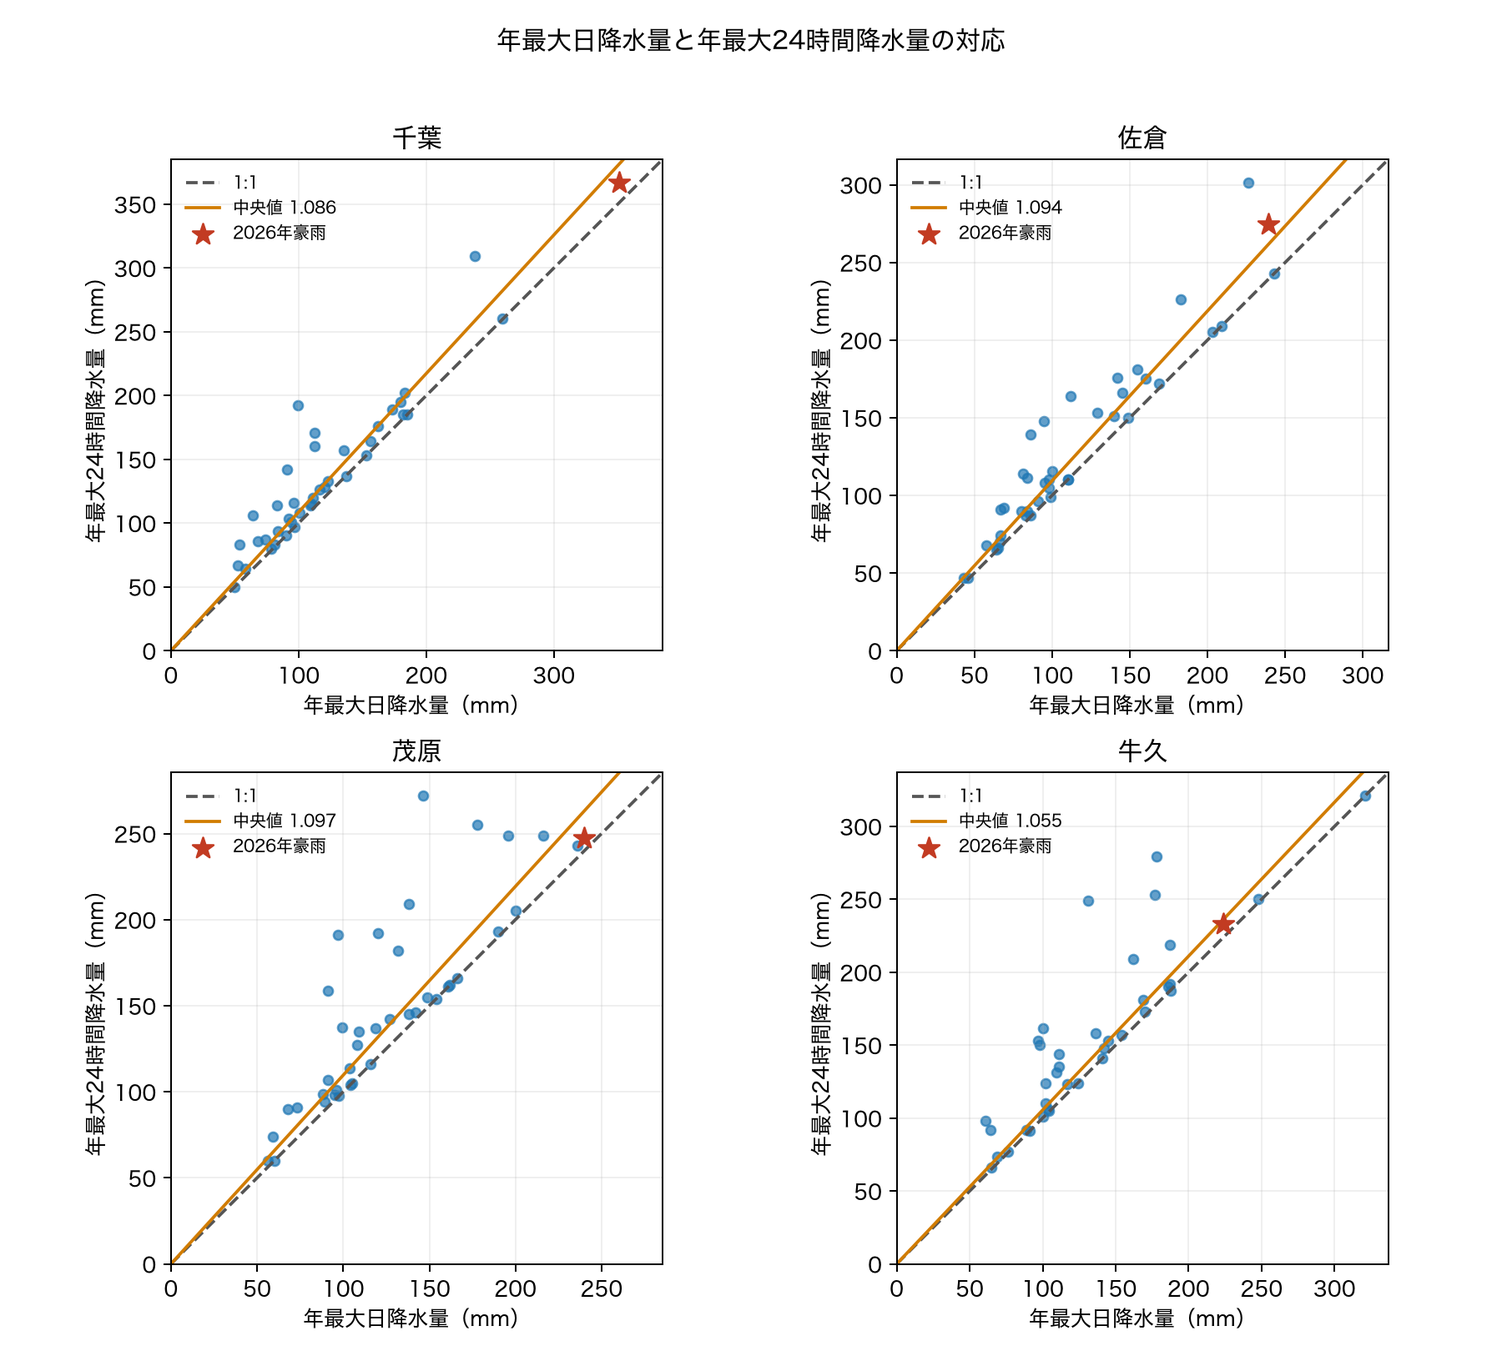
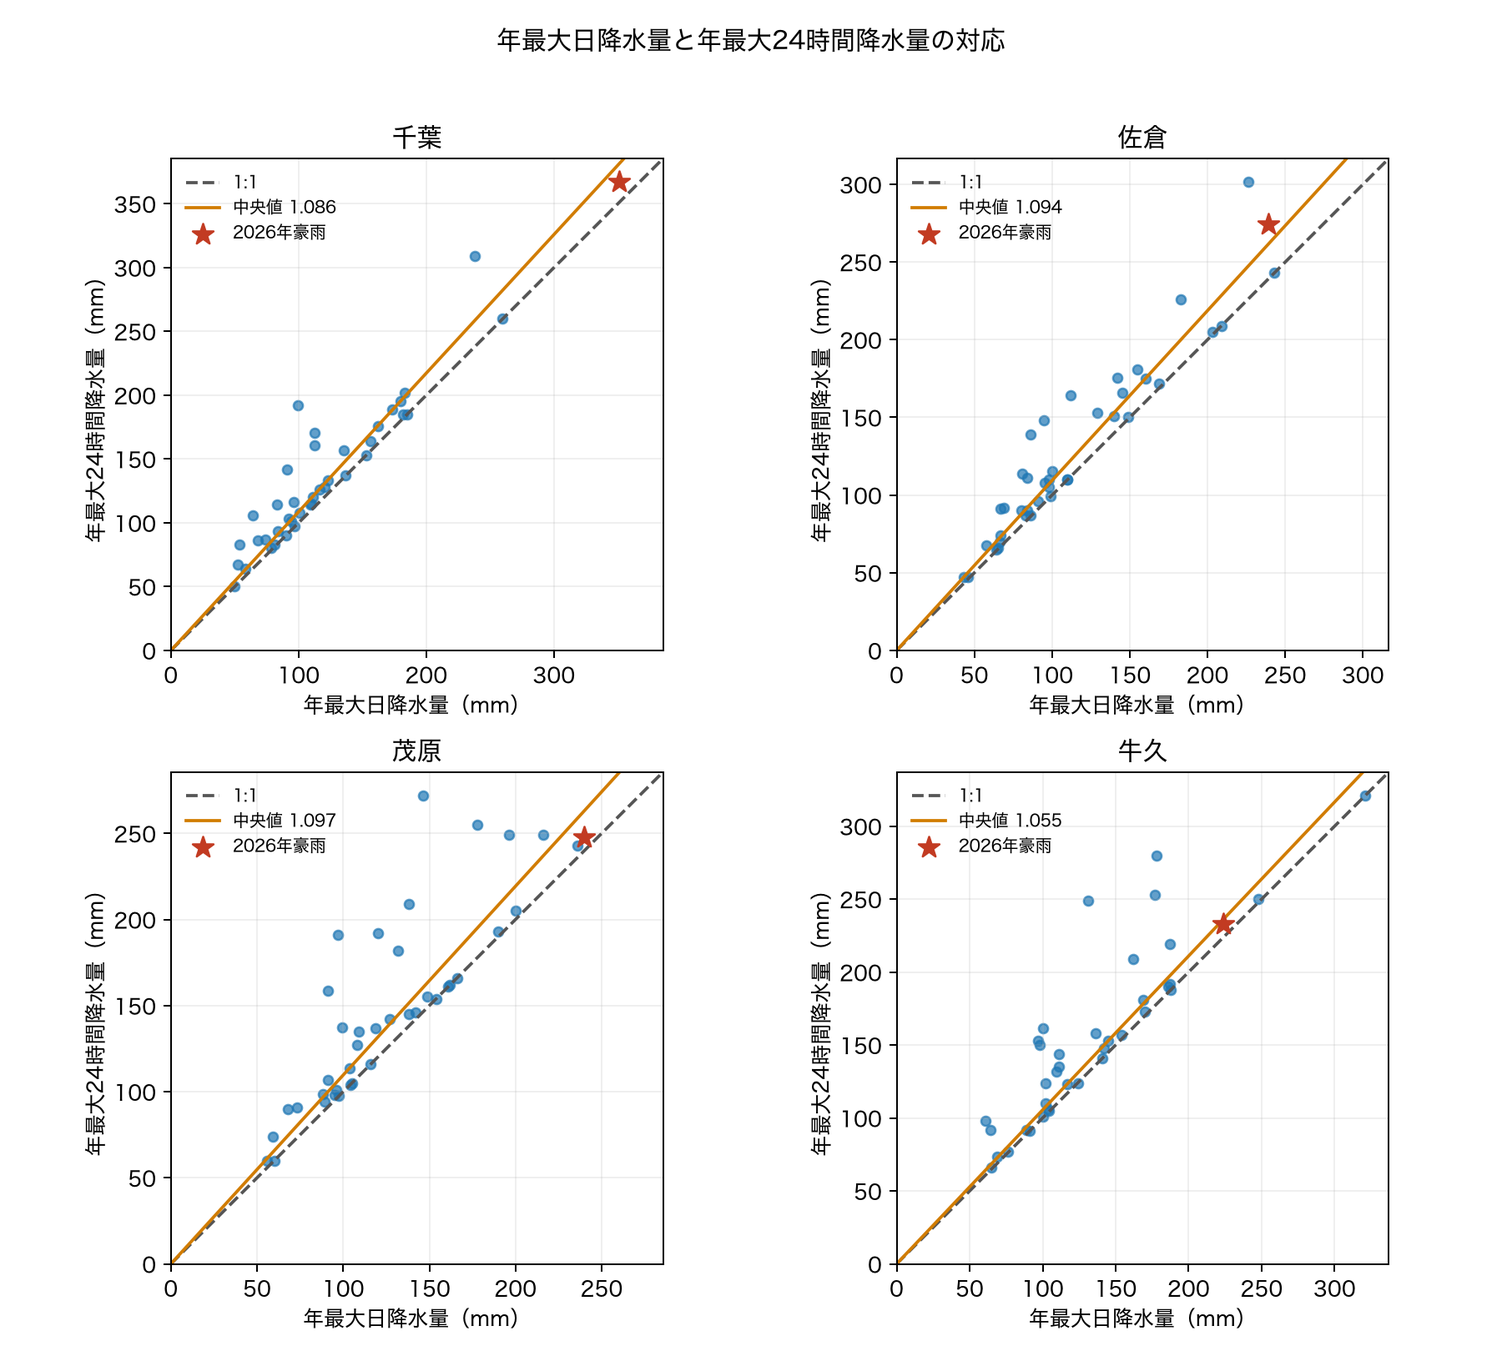
記事の内容と表現を推敲し、図の凡例ラベルを整合/不整合に統一
- 「原文ママ」注を削除し、元記事の80～150年地域の引用を追加
- 速報版解析雨量に基づく24時間降水量の記述を明確化
- 解析対象を1点目に限定し、まとめの観測記録の記述を具体化
- 図1・表1のラベルを「24時間降水量GEV（整合）」「日降水量GEV（不整合）」に統一
- 重言・重複表現・文末表現を修正

diff --git a/src/chiba_heavy_rain/daily_vs_24h.py b/src/chiba_heavy_rain/daily_vs_24h.py
@@ -266,20 +266,20 @@ def _plot_gev(
             return_level(periods, hourly_fit),
             color="#1261a0",
             lw=1.8,
-            label="24時間GEV",
+            label="24時間降水量GEV",
         )
         marker_points = (
             (
                 float(row["rp_24h_matched"]),
                 float(row["event_24h_mm"]),
                 "#1261a0",
-                "24時間降水量整合",
+                "24時間降水量GEV（整合）",
             ),
             (
                 float(row["rp_daily_mismatched"]),
                 float(row["event_24h_mm"]),
                 "#c23b22",
-                "日降水量GEVに24時間降水量",
+                "日降水量GEV（不整合）",
             ),
         )
         marker_x_values = [

diff --git a/results/report.md b/results/report.md
@@ -1,16 +1,16 @@
-# 令和８年８月千葉豪雨の再現期間を検証する―日降水量と24時間降水量の違い
+# 令和8年8月千葉豪雨の再現期間を検証する―日降水量と24時間降水量の違い
 
 ## はじめに
 
 『千葉県で500mm超の記録的大雨「過去ならほぼ起こり得ない規模」の発生確率が温暖化で2倍以上に』という記事を読んだところ、次のような記述があった。
 
-> 千葉市緑区から市原市東部では、574.2mmの雨量となりました。過去の気候では、この規模の大雨が起こる確率は0.001％ほどで、頻度にすると1万年を大きく超える規模に相当します（※原文ママ）。統計上、ほぼ起こり得ないレベルの大雨だったとみられます。
+> 千葉市緑区から市原市東部では、574.2mmの雨量となりました。過去の気候では、この規模の大雨が起こる確率は0.001％ほどで、頻度にすると1万年を大きく超える規模に相当します。統計上、ほぼ起こり得ないレベルの大雨だったとみられます。
 >
 > また、東金・大網白里付近の373.0mmは約1,182年に1度、千葉市中央区から若葉区付近の362.3mmは約574年に1度、茂原市付近の327.5mmは約277年に1度に相当しました。これらの地域でも、一般的な生活の中では経験する機会がほとんどない、極めて稀な規模の大雨だったと考えられます。
+>
+> このほか、市原市中部、八千代・佐倉付近、長南・長柄付近、野田・流山付近でも、80年から150年に1度程度に相当する大雨が確認されました。
 
 [ウェザーニュース「千葉県で500mm超の記録的大雨」](https://weathernews.jp/news/202608/140251/)
-
-（※）再現期間1万年に対応する確率は0.01%である。
 
 ## 元記事の再現期間評価をめぐる4つの論点
 
@@ -18,32 +18,32 @@
 
 ### 1. 日降水量と24時間降水量の違い
 
-記事で使われている気候シミュレーションデータのNIES2020とNEX-GDDP-CMIP6は、いずれも日別のデータである。一方、評価対象となっている「574.2mm」などの雨量は、10分値などから求めた最大24時間降水量とみられる。0時から24時までの日降水量は、任意の24時間で積算した降水量より小さくなりやすいので、日降水量から推定した極値分布に最大24時間降水量をそのまま当てはめれば、再現期間は長めに偏る。
+記事で使われている気候シミュレーションデータのNIES2020とNEX-GDDP-CMIP6は、いずれも日別のデータである。一方、評価対象となっている「574.2mm」などの雨量は、元記事の図に「8月13日8:10～8月14日8:10」と記されていることから、10分ごとに作成される速報版解析雨量を任意の24時間で積算した最大24時間降水量とみられる。0時から24時までの日降水量は、任意の24時間で積算した最大24時間降水量より小さいか等しくなるので、日降水量から推定した極値分布に最大24時間降水量をそのまま当てはめれば、再現期間は長めに偏る。
 
-記事に書かれた説明を読む限り、この時間定義の違いをそろえる処理は示されていない。後述するアメダスの解析では、この不整合による影響が4地点すべてで確認できた。（ただし記事に書かれていない日降水量と24時間降水量の補正処理が行われた可能性はある）。
+記事に書かれた説明を読む限り、この時間定義の違いをそろえる処理は示されていない。後述するアメダスの解析でこの不整合を模擬すると、4地点すべてで再現期間が長くなった（ただし記事に書かれていない日降水量と24時間降水量の補正処理が行われた可能性はある）。
 
 ### 2. 気候シミュレーションと解析雨量の違い
 
-記事では、気候シミュレーションから推定した極値分布に解析雨量を当てはめて再現期間を出している。異なるデータを比べること自体は批判されるものではなく、この記事のように将来気候まで含めて評価するなら避けられない。問題は、両者の性質の違いを踏まえた検証が（少なくとも記事中では）示されていない点である。性質の違いとしては、たとえば次のようなものがある。
+記事では、気候シミュレーションから推定した極値分布に解析雨量を当てはめて再現期間を出している。異なるデータを比べること自体は批判されるべきものではなく、この記事のように将来気候まで含めて評価するなら避けられない。問題は、両者の性質の違いを踏まえた検証が（少なくとも記事中では）示されていない点である。性質の違いとしては、たとえば次のようなものがある。
 
 * 解析雨量は約1 km格子で、局地的な雨のピークをとらえたものである
 * NEX-GDDP-CMIP6は約25 km格子で、空間平均としての性質が強い
 * NIES2020は1 km格子だが、粗いGCMを統計的に内挿・補正したものであり、局地的な豪雨を1 kmスケールで物理的に再現しているわけではない
 * バイアス補正で通常の雨の分布が合っていても、観測範囲を超える極端な裾の挙動までは十分に拘束されない
 
-「過去の気候」については、解析雨量とモデルの年最大降水量や上位の分位点を、時間・空間スケールをそろえて比べれば、シミュレーションが大雨を過大評価・過小評価しているかを確認することができると考えられる。
+「過去の気候」については、解析雨量とモデルの年最大降水量や上位の分位点を、時間・空間スケールをそろえて比べれば、シミュレーションが大雨を過大評価・過小評価しているかを確認できるだろう。
 
 ### 3. 「1万年に1度」という伝え方
 
-一般読者への伝え方として、「1万年を大きく超える」と書くと「完新世の間で起こり得ない珍しさ」のように実時間上の発生間隔のように読まれるおそれがある。再現期間は、ある気候状態を定常と仮定したときの年超過確率の逆数であって、（自然変動と人為起源を問わず）気候変動が起きる現実世界において、実際に平均1万年に1回起こるという意味ではない。このように解釈に注意が必要な概念であるため、外挿で得られる極端な値は直接示さない方が、科学コミュニケーションとしては誠実なように個人的には思う。
+一般読者への伝え方として、「1万年を大きく超える」と書くと「完新世の間で起こり得ない珍しさ」、すなわち実時間上の発生間隔として読まれるおそれがある。再現期間は、ある気候状態を定常と仮定したときの年超過確率の逆数であって、（自然変動と人為起源を問わず）気候変動が起きる現実世界において、実際に平均1万年に1回起こるという意味ではない。このように解釈に注意が必要な概念であるため、外挿で得られる極端な値は直接示さない方が、科学コミュニケーションとしては誠実だと考える。
 
 ### 4. 解析期間と外挿の大きさ
 
-最後に、39年間のデータから1万年超という再現期間を推定していることについて補足しておく。この書き方は大幅な外挿のように読めるため違和感を感じるが、複数のモデルアンサンブルを利用している場合、名目上の標本規模は解析期間よりも大きくなりうる。具体的には、NIES2020なら5モデルで195モデル年、NEX-GDDP-CMIP6なら35モデルすべてで1,365モデル年になる。（あくまで推測だが、記事が1,182年までは具体的な数値を出し、1万年超では表現をぼかしているのは、後者の値を意識したのかもしれない）。
+最後に、39年間のデータから1万年超という再現期間を推定していることについて補足しておく。この書き方は大幅な外挿のように読めるため違和感を覚えるが、複数のモデルアンサンブルを利用している場合、名目上の標本規模は解析期間よりも大きくなりうる。具体的には、NIES2020なら5モデルで195モデル年、NEX-GDDP-CMIP6なら35モデルすべてで1,365モデル年になる。（あくまで推測だが、記事が1,182年までは具体的な数値を出し、1万年超では表現をぼかしているのは、後者の値を意識したのかもしれない）。
 
 ## アメダス観測を用いた時間集計方法の影響の評価
 
-1点目と2点目について、実際の観測データを用いて再現期間を計算した場合、どの程度の値になるだろうか。記事の結果と比較するには本来解析雨量を用いるのが望ましいが、オープンデータとして入手できない。そのため、アメダスの地上観測データを用いた解析を行うことにする。
+1点目について、実際の観測データを用いて再現期間を計算した場合、どの程度の値になるだろうか。記事の結果と比較するには本来解析雨量を用いるのが望ましいが、オープンデータとして入手できない。そのため、アメダスの地上観測データを用いた解析を行うことにする。
 
 ### データ
 
@@ -61,13 +61,13 @@
 
 2026年の豪雨は分布の推定には含めず、1976～2014年の分布に対する評価対象とした。今回の雨量 $x$ の年超過確率を $1 - F(x)$ とし、再現期間を $T = 1 / (1 - F(x))$ として計算した。
 
-また、0時から24時までの日降水量と、時別値または10分値から連続する24時間分を積算した24時間降水量の違いを調べるため、同じ期間の年最大日降水量にも定常GEV分布を当てはめた。2026年豪雨の最大24時間降水量について、24時間降水量GEVに当てはめた「24時間降水量整合」と、日降水量GEVに当てはめた「日降水量GEVに24時間降水量」を比較した。後者は、日別データから推定した分布に観測24時間雨量を直接比較した場合の時間定義の不整合を模擬するものである。
+また、0時から24時までの日降水量と、時別値または10分値から連続する24時間分を積算した24時間降水量の違いを調べるため、同じ期間の年最大日降水量にも定常GEV分布を当てはめた。2026年豪雨の最大24時間降水量について、24時間降水量GEVに当てはめた「24時間降水量GEV（整合）」と、日降水量GEVに当てはめた「日降水量GEV（不整合）」を比較した。後者は、日別データから推定した分布に観測24時間雨量を直接比較した場合の時間定義の不整合を模擬するものである。
 
-解析に使用するソースコードはCodexを使用して作成した。これは[GitHubリポジトリ](https://github.com/wm-ytakano/chiba-heavy-rain)から参照できる。
+解析コードはCodexを用いて作成した。これは[GitHubリポジトリ](https://github.com/wm-ytakano/chiba-heavy-rain)から参照できる。
 
 ### 結果
 
-図1では、今回の最大24時間降水量を二つのGEV分布で評価した結果を比較した。青星と赤星は同じ雨量を表しており、青星は24時間降水量GEV、赤星は日降水量GEVに当てはめた再現期間である。
+図1に、今回の最大24時間降水量を二つのGEV分布で評価した結果を示す。
 
 **図1　年最大日降水量と年最大24時間降水量に基づくGEV分布の比較。** 青点と青線は年最大24時間降水量とそのGEV分布、橙点と橙線は年最大日降水量とそのGEV分布を示す。青星と赤星はいずれも2026年8月豪雨の最大24時間降水量を表し、青星は24時間降水量GEV、赤星は日降水量GEVで評価した再現期間である。両者を結ぶ破線は、同じ雨量を異なるGEV分布で評価していることを示す。解析期間は1976～2014年、牛久のみ1978～2014年である。
 
@@ -75,23 +75,23 @@
 
 4地点すべてで赤星が青星より右側にあり、日降水量GEVに最大24時間降水量を直接当てはめると、再現期間が長くなった。具体的な値と元記事との比較を表1に示す。
 
-**表1　地上観測から推定した再現期間と元記事に記載された再現期間の比較。** 計算値は、1976～2014年（牛久のみ1978～2014年）の年最大日降水量または年最大24時間降水量にLモーメント法による定常GEV分布を適用して求めた。「24時間降水量整合」は24時間降水量GEVに今回の最大24時間降水量を、「日降水量GEVに24時間降水量」は日降水量GEVに同じ最大24時間降水量を当てはめた値である。
+**表1　地上観測から推定した再現期間と元記事に記載された再現期間の比較。** 計算値は、1976～2014年（牛久のみ1978～2014年）の年最大日降水量または年最大24時間降水量にLモーメント法による定常GEV分布を適用して求めた。「24時間降水量GEV（整合）」は24時間降水量GEVに今回の最大24時間降水量を、「日降水量GEV（不整合）」は日降水量GEVに同じ最大24時間降水量を当てはめた値である。
 
-| 地点 | 今回の最大24時間降水量（mm） | 24時間降水量整合 | 日降水量GEVに24時間降水量 | 対応する元記事の地域名 | 元記事の再現期間 |
+| 地点 | 今回の最大24時間降水量（mm） | 24時間降水量GEV（整合） | 日降水量GEV（不整合） | 対応する元記事の地域名 | 元記事の再現期間 |
 |---|---:|---:|---:|---|---:|
 | 千葉 | 367.0 | 299年 | 436年 | 千葉市中央区～若葉区付近 | 約574年 |
 | 茂原 | 247.5 | 16.5年 | 58.7年 | 茂原市付近 | 約277年 |
 | 牛久 | 233.0 | 9.40年 | 19.2年 | 市原市中部 | 80～150年程度 |
 | 佐倉 | 274.5 | 39.4年 | 61.2年 | 八千代・佐倉付近 | 80～150年程度 |
 
-表1では、4地点すべてで元記事の再現期間が「24時間降水量整合」の推定値を上回った。一方、最大24時間降水量を日降水量GEVに当てはめた再現期間は、4地点すべてで元記事の値に近づいた。0時から24時までの日別データから推定した分布に、時別値または10分値から求めた24時間降水量を直接比較する時間定義の不整合は、再現期間を長く算出する一因になり得る。
+表1では、4地点すべてで元記事の再現期間が「24時間降水量GEV（整合）」の推定値を上回った。一方、最大24時間降水量を日降水量GEVに当てはめた再現期間は、4地点すべてで元記事の値に近づいた。0時から24時までの日別データから推定した分布に、時別値または10分値から求めた24時間降水量を直接比較する時間定義の不整合は、再現期間を長く算出する一因になり得る。
 
 ただし、元記事の解析雨量とアメダスの地点雨量は一致しない。特に茂原では、アメダスの最大24時間降水量が247.5 mmだったのに対し、元記事の解析雨量は327.5 mmである。この雨量差が、アメダスから推定した再現期間が元記事より短くなった大きな要因である可能性がある。一方、千葉ではアメダスの367.0 mmと解析雨量の362.3 mmが近く、雨量値の違いだけでは再現期間の差を説明しにくい。
 
 ## まとめ
 
-千葉観測所における今回の大雨の再現期間は、年最大24時間降水量に基づくGEV分布では約300年となった。従来の観測記録も上回っており、「極めて稀な規模の大雨」という定性的な表現は妥当であると考えられる。
+千葉観測所における今回の大雨の再現期間は、年最大24時間降水量に基づくGEV分布では約300年となった。千葉における1976年以降の年最大24時間降水量の最大値（309 mm）も上回っており、「極めて稀な規模の大雨」という定性的な表現は妥当であると考えられる。
 
 一方、同じ最大24時間降水量を日降水量GEVに当てはめると約436年となり、元記事の約574年に近づいた。他の3地点でも同じ方向の変化がみられたことから、日降水量と24時間降水量の時間定義の不整合が、元記事の再現期間を長くした一因である可能性がある。ただし、記事に記載されていない補正処理が行われた可能性は残る。
 
-再現期間は、使用するデータ、時間集計方法、候補分布や母数推定法によって変化し、とくに分布の裾では不確実性が大きい。本記事では比較のため299年、436年などの値を示したが、これらの桁まで高い精度で決まっているわけではない。一般向けには「約300年」や「数百年規模」のように丸め、定性的な稀さと推定値の不確実性を併せて伝える方が適切だろう。解析期間より長い再現期間を推定すること自体は否定されないが、極端な外挿値ほど数値を確定的に受け取らせない配慮が必要だと思う。
+再現期間は、使用するデータ、時間集計方法、候補分布や母数推定法によって変化し、とくに分布の裾では不確実性が大きい。本記事では比較のため299年、436年などの値を示したが、これらの桁まで高い精度で決まっているわけではない。一般向けには「約300年」や「数百年規模」のように丸め、定性的な稀さと推定値の不確実性を併せて伝える方が適切だろう。解析期間より長い再現期間を推定すること自体は否定されるものではないが、極端な外挿値ほど数値を確定的に受け取らせない配慮が必要だと思う。
